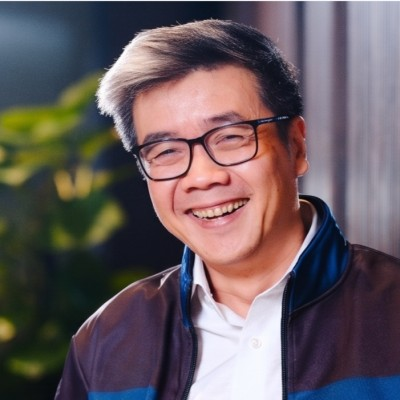
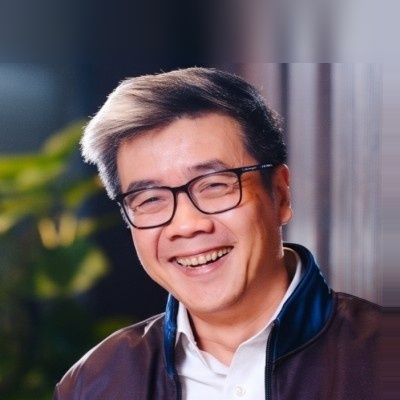
feat(speakers): update speaker Chinese names, bios, titles and headshot framing (Update #8)

diff --git a/src/data.ts b/src/data.ts
@@ -326,7 +326,7 @@ export const SPEAKERS_2026: Speaker[] = [
   {
     id: 'celeste-tan',
     name: 'Tan Wei Wei Celeste',
-    nameZh: '陈薇薇 (Tan Wei Wei Celeste)',
+    nameZh: '陈纬玮',
     sessionTagEn: 'Fireside Chat',
     sessionTagZh: '炉边对话',
     roleTagEn: 'Moderator',
@@ -336,7 +336,7 @@ export const SPEAKERS_2026: Speaker[] = [
     organizationZh: '新加坡企业发展局',
     photoUrl: '/speakers/celeste-tan.jpg',
     bioEn: 'Celeste is with Enterprise Singapore, where she works on initiatives that help businesses build quality and trust, enabling them to strengthen their competitiveness and access international markets. She holds a Bachelor of Social Sciences in Economics, Public Policy & Global Affairs from Nanyang Technological University.\n\nOutside work, Celeste is actively involved in youth and community development. She is passionate about bringing people and ideas together, and enjoys creating conversations that encourage different perspectives and explore how we can shape the future together.',
-    bioZh: '陈薇薇就职于新加坡企业发展局（Enterprise Singapore），致力于协助企业建立质量与信任标准，增强核心竞争力并拓展国际市场。她拥有南洋理工大学经济学、公共政策与全球事务社会科学学士学位。\n\n工作之余，薇薇积极参与青年与社区发展项目。她热衷于将多元人群与创新想法连接起来，乐于促进跨视角对话，共同探索如何携手塑造未来。'
+    bioZh: '陈纬玮就职于新加坡企业发展局（Enterprise Singapore），致力于协助企业建立质量与信任标准，增强核心竞争力并拓展国际市场。她拥有南洋理工大学经济学、公共政策与全球事务社会科学学士学位。\n\n工作之余，纬玮积极参与青年与社区发展项目。她热衷于将多元人群与创新想法连接起来，乐于促进跨视角对话，共同探索如何携手塑造未来。'
   },
   {
     id: 'zhang-tianyi',
@@ -351,7 +351,7 @@ export const SPEAKERS_2026: Speaker[] = [
     organizationZh: 'PuzzleLogic',
     photoUrl: '/speakers/zhang-tianyi.jpg',
     bioEn: 'Zhang Tianyi is the Co-Founder of PuzzleLogic. He completed his undergraduate studies at Beihang University, earned a Master\'s degree from Nanyang Technological University (NTU), and is currently pursuing his Ph.D. at the National University of Singapore (NUS). He previously served at the Agency for Science, Technology and Research (A*STAR) Singapore. He has published over 30 papers in the field of AI medical imaging in prestigious journals and conferences including IEEE TNNLS, IEEE TMI, MIA, and MICCAI.',
-    bioZh: '张天翊是PuzzleLogic的联合创始人，北航本科，新加坡南洋理工大学硕士，目前在新国立读博。他此前在新加坡科技局（ASTAR）任职，在AI医学图像领域有30多篇论文，发表在著名ai医学图像的期刊和会议如IEEE TNNLS，IEEE TMI，MIA，MICCAI等。'
+    bioZh: '张天翊是 PuzzleLogic 的联合创始人，本科毕业于北京航空航天大学，硕士毕业于新加坡南洋理工大学，目前在新加坡国立大学攻读博士。他此前曾任职于新加坡科技研究局（A*STAR），在 AI 医学图像领域发表了 30 多篇论文，研究成果见于 IEEE TNNLS、IEEE TMI、Medical Image Analysis (MIA)、MICCAI 等著名期刊和会议。'
   },
   {
     id: 'glex-low',
@@ -362,16 +362,16 @@ export const SPEAKERS_2026: Speaker[] = [
     roleTagEn: 'Speaker',
     roleTagZh: '演讲嘉宾',
     isModerator: false,
-    organizationEn: 'Storyworld.AI',
-    organizationZh: 'Storyworld.AI',
+    organizationEn: 'Founder, Storyworld.AI',
+    organizationZh: 'Storyworld.AI 创始人',
     photoUrl: '',
-    bioEn: 'Glex Low is representing Storyworld.AI. Full biography will be announced soon.',
-    bioZh: 'Glex Low 代表 Storyworld.AI 出席分论坛。详细个人履历即将公布。'
+    bioEn: 'Founder, Storyworld.AI. Full biography will be announced soon.',
+    bioZh: 'Storyworld.AI 创始人。详细个人履历即将公布。'
   },
   {
     id: 'howie-lau',
     name: 'Howie Lau How Sin',
-    nameZh: '刘浩新 (Howie Lau How Sin)',
+    nameZh: '刘浩新',
     sessionTagEn: 'Panel',
     sessionTagZh: '分论坛',
     roleTagEn: 'Moderator',
@@ -386,7 +386,7 @@ export const SPEAKERS_2026: Speaker[] = [
   {
     id: 'adam-chee',
     name: 'Prof. Adam Chee',
-    nameZh: '齐亚当教授 (Prof. Adam Chee)',
+    nameZh: '徐伟翔教授',
     sessionTagEn: 'Debate',
     sessionTagZh: '大辩论',
     roleTagEn: 'Speaker',
@@ -396,12 +396,12 @@ export const SPEAKERS_2026: Speaker[] = [
     organizationZh: '新加坡中央医院',
     photoUrl: '/speakers/adam-chee.jpg',
     bioEn: 'A/Prof. Adam CHEE is a digital health and health informatics leader, currently serving as Director of the AI Office at Singapore General Hospital.\n\nHe brings deep expertise across healthcare, technology, innovation, and business transformation, with experience spanning clinical information systems, strategic consulting, standards development, AI-enabled health, and health systems transformation.\n\nAdam has worked across Asia Pacific and the Middle East, supporting the adoption of evidence-based, technology-enabled healthcare solutions.\n\nHe also serves in multiple regional and international leadership roles, including HL7 Singapore, HL7 Asia, ISO TC215, WHO, APEC, and universities in the region.',
-    bioZh: '齐亚当副教授是数字健康与健康信息学领域的知名领袖，现任新加坡中央医院（SGH）人工智能办公室主任。\n\n他在医疗健康、科技、创新及商业转型领域拥有深厚积淀，经验涵盖临床信息系统、战略咨询、标准制定、AI智慧医疗以及健康体系变革。\n\n齐亚当曾参与亚太与中东地区多个项目，推动循证及科技赋能的医疗解决方案落地。他还在HL7新加坡、HL7亚洲、ISO TC215、世卫组织（WHO）、亚太经合组织（APEC）及区域内多所知名高校担任重要领导职务。'
+    bioZh: '徐伟翔副教授是数字健康与健康信息学领域的知名领袖，现任新加坡中央医院（SGH）人工智能办公室主任。\n\n他在医疗健康、科技、创新及商业转型领域拥有深厚积淀，经验涵盖临床信息系统、战略咨询、标准制定、AI智慧医疗以及健康体系变革。\n\n徐伟翔曾参与亚太与中东地区多个项目，推动循证及科技赋能的医疗解决方案落地。他还在HL7新加坡、HL7亚洲、ISO TC215、世卫组织（WHO）、亚太经合组织（APEC）及区域内多所知名高校担任重要领导职务。'
   },
   {
     id: 'he-yiyang',
     name: 'Yiyang He',
-    nameZh: '何依洋 (Yiyang He)',
+    nameZh: '何一阳',
     sessionTagEn: 'Debate',
     sessionTagZh: '大辩论',
     roleTagEn: 'Speaker',
@@ -411,12 +411,12 @@ export const SPEAKERS_2026: Speaker[] = [
     organizationZh: '新加坡国立大学',
     photoUrl: '/speakers/he-yiyang.jpg',
     bioEn: 'He Yiyang is an undergraduate at the National University of Singapore studying Sociology and Political Science, and is part of the honours programme at NUS College. His research focuses on how technological change is reshaping education and work.\n\nHe has studied how universities are responding to generative AI, particularly its effects on teaching and assessment, as well as how AI may change occupations, job tasks and the skills workers need. He is also interested in who benefits from these changes, especially how unequal access to AI tools and training may produce very different outcomes across groups. His wider research also looks at flexible work, overwork and workplace practices, which has led to a broader interest in how institutions shape people\'s experiences of work. More recently, he has also been exploring the environmental side of AI, including data-centre growth, energy demand, sustainability and questions of a just transition. Outside research, Yiyang has worked in people consulting, strategic planning and strategic communications across the public and private sectors. He previously served as President of the NUS College Club, representing more than 1,500 students.',
-    bioZh: '何依洋是新加坡国立大学社会学与政治学本科生，也是国大荣誉学院（NUS College）成员。他的研究聚焦科技变革如何重塑教育与工作范式。\n\n他深入探讨了大学对生成式AI的应对机制，特别是其对教学与评估的影响，以及AI对未来职业结构、技能需求和工作任务的深远重构。他关注技术红利的分配公平性，探讨AI工具与培训获取不平等带来的影响。\n\n其研究领域还延伸至灵活工时、过度工作与职场文化，并拓展至AI的环境议题，包括数据中心增长、能源消耗、可持续性与公正转型。在学术研究之外，依洋曾在公共与私营部门从事人力咨询、战略规划及品牌传播工作，并曾担任拥有1500多名学生的国大学院俱乐部主席。'
+    bioZh: '何一阳是新加坡国立大学社会学与政治学本科生，也是国大荣誉学院（NUS College）成员。他的研究聚焦科技变革如何重塑教育与工作范式。\n\n他深入探讨了大学对生成式AI的应对机制，特别是其对教学与评估的影响，以及AI对未来职业结构、技能需求和工作任务的深远重构。他关注技术红利的分配公平性，探讨AI工具与培训获取不平等带来的影响。\n\n其研究领域还延伸至灵活工时、过度工作与职场文化，并拓展至AI的环境议题，包括数据中心增长、能源消耗、可持续性与公正转型。在学术研究之外，一阳曾在公共与私营部门从事人力咨询、战略规划及品牌传播工作，并曾担任拥有1500多名学生的国大学院俱乐部主席。'
   },
   {
     id: 'yi-kaizhi',
     name: 'Yi KaiZhi',
-    nameZh: '易凯智 (Yi KaiZhi)',
+    nameZh: '蚁凯致',
     sessionTagEn: 'Debate',
     sessionTagZh: '大辩论',
     roleTagEn: 'Speaker',
@@ -425,8 +425,8 @@ export const SPEAKERS_2026: Speaker[] = [
     organizationEn: 'SagePaths Group',
     organizationZh: '联智教育集团',
     photoUrl: '/speakers/yi-kaizhi.jpg',
-    bioEn: 'Raised in Singapore\'s school system, with a decade in education: tutoring at 16, founded a study-abroad agency at 20. Today I\'m a Partner at SagePaths Group, an education services group operating in Singapore since 2006, where I lead SagePaths Global Education, helping families plan their path from school selection to university.',
-    bioZh: '在新加坡教育体系中成长，深耕教育领域十载：16岁开启家教生涯，20岁创立留学服务机构。现任联智集团（SagePaths Group，创立于2006年的新加坡专业教育服务集团）合伙人，负责联智国际教育业务，致力于为家庭提供从择校规划到大学录取的全方位路径指导。'
+    bioEn: 'An education entrepreneur raised in Singapore’s school system. Today I’m a Partner at SagePaths Group, a one-stop education platform serving families in Singapore since 2006 serving more than 10,000 families in Singapore, covering school selection, tutoring, university applications, student housing, study tours and family relocation. I lead SagePaths Global Education, helping families plan every step from their first school in Singapore to university and beyond.',
+    bioZh: '在新加坡教育体系中成长的一名教育创业者。现任联智教育集团（SagePaths Group）合伙人。联智作为一站式教育平台，自2006年起扎根新加坡，已累计服务超过10,000个家庭，业务涵盖择校规划、课后辅导、大学升学、学生公寓、研学游学及家庭移居等。目前我负责联智国际教育（SagePaths Global Education），致力于协助家庭规划从新加坡入学到大学及未来的每一步关键旅程。'
   }
 ];
 
@@ -571,8 +571,8 @@ export const TRANSLATIONS = {
     speakersSubtitle: 'Distinguished speakers, panelists, and moderators at BCYF 2026.',
     speakersClickHint: 'Click on any speaker to view their biography',
     clickToReadBio: 'Read Bio',
-    panelPendingNote: 'At least 2 more speakers TBC',
-    debatePendingNote: '2 more speakers TBC',
+    panelPendingNote: '1 more speaker TBC',
+    debatePendingNote: '1 more speaker TBC',
     debateModeratorPendingNote: 'Moderator (TBC)',
     speakerPendingChip: 'Speaker (TBC)',
     moderatorTag: 'Moderator',
@@ -644,8 +644,8 @@ export const TRANSLATIONS = {
     speakersSubtitle: '2026年通商中国青年论坛特邀嘉宾、研讨嘉宾与主持人阵容。',
     speakersClickHint: '点击卡片查看嘉宾完整履历',
     clickToReadBio: '查看完整履历',
-    panelPendingNote: '至少2名演讲嘉宾待定',
-    debatePendingNote: '2名辩论嘉宾待定',
+    panelPendingNote: '1名研讨嘉宾待定',
+    debatePendingNote: '1名辩论嘉宾待定',
     debateModeratorPendingNote: '辩论主持人（待定）',
     speakerPendingChip: '嘉宾（待定）',
     moderatorTag: '主持人',

diff --git a/src/components/AgendaSection.tsx b/src/components/AgendaSection.tsx
@@ -242,13 +242,13 @@ export default function AgendaSection({ language }: AgendaSectionProps) {
                             >
                               <img
                                 src="/speakers/celeste-tan.jpg"
-                                alt={isEn ? 'Tan Wei Wei Celeste' : '陈薇薇'}
+                                alt={isEn ? 'Tan Wei Wei Celeste' : '陈纬玮'}
                                 className="w-14 h-14 rounded-full object-cover border-2 border-brand-blue/40 shadow-xs shrink-0 group-hover:scale-105 transition-transform"
                               />
                               <div className="min-w-0">
                                 <div className="flex flex-wrap items-center gap-1.5">
                                   <span className="text-sm font-bold text-brand-navy group-hover:text-brand-blue transition-colors">
-                                    {isEn ? 'Tan Wei Wei Celeste' : '陈薇薇'}
+                                    {isEn ? 'Tan Wei Wei Celeste' : '陈纬玮'}
                                   </span>
                                   <span className="text-[10px] font-mono font-bold text-brand-blue bg-blue-50 border border-blue-200 px-2 py-0.5 rounded-full">
                                     {isEn ? 'Moderator' : '主持人'}
@@ -300,7 +300,7 @@ export default function AgendaSection({ language }: AgendaSectionProps) {
                           <div className="space-y-1.5">
                             <div className="flex items-center justify-between">
                               <span className="text-[10px] font-mono font-bold uppercase tracking-wider text-slate-400 block">
-                                {isEn ? 'Panelists (at least 2 more speakers TBC)' : '研讨嘉宾（至少2名嘉宾待定）'}
+                                {isEn ? 'Panelists (1 more speaker TBC)' : '研讨嘉宾（1名嘉宾待定）'}
                               </span>
                               <span className="text-[10px] font-mono text-brand-blue bg-blue-50 px-2 py-0.5 rounded-full">
                                 {t.panelPendingNote}
@@ -345,16 +345,13 @@ export default function AgendaSection({ language }: AgendaSectionProps) {
                                     </span>
                                   </div>
                                   <p className="text-[11px] text-slate-500 truncate mt-0.5">
-                                    Storyworld.AI
+                                    {isEn ? 'Founder, Storyworld.AI' : 'Storyworld.AI 创始人'}
                                   </p>
                                 </div>
                               </div>
 
-                              {/* Pending Panelist 1 */}
+                              {/* Pending Panelist */}
                               <SpeakerChipSkeleton label={isEn ? 'Panelist 3 (TBC)' : '研讨嘉宾 3（待定）'} />
-
-                              {/* Pending Panelist 2 */}
-                              <SpeakerChipSkeleton label={isEn ? 'Panelist 4 (TBC)' : '研讨嘉宾 4（待定）'} />
                             </div>
                           </div>
                         </div>
@@ -377,7 +374,7 @@ export default function AgendaSection({ language }: AgendaSectionProps) {
                           <div className="space-y-1.5">
                             <div className="flex items-center justify-between">
                               <span className="text-[10px] font-mono font-bold uppercase tracking-wider text-slate-400 block">
-                                {isEn ? 'Debaters (2 more speakers TBC)' : '辩论嘉宾（2名嘉宾待定）'}
+                                {isEn ? 'Debaters (1 more speaker TBC)' : '辩论嘉宾（1名嘉宾待定）'}
                               </span>
                               <span className="text-[10px] font-mono text-brand-blue bg-blue-50 px-2 py-0.5 rounded-full">
                                 {t.debatePendingNote}
@@ -398,7 +395,7 @@ export default function AgendaSection({ language }: AgendaSectionProps) {
                                 <div className="min-w-0">
                                   <div className="flex items-center gap-1.5">
                                     <span className="text-xs sm:text-sm font-bold text-brand-navy group-hover:text-brand-blue transition-colors">
-                                      {isEn ? 'Prof. Adam Chee' : '齐亚当教授'}
+                                      {isEn ? 'Prof. Adam Chee' : '徐伟翔教授'}
                                     </span>
                                   </div>
                                   <p className="text-[11px] text-slate-500 truncate mt-0.5">
@@ -420,7 +417,7 @@ export default function AgendaSection({ language }: AgendaSectionProps) {
                                 <div className="min-w-0">
                                   <div className="flex items-center gap-1.5">
                                     <span className="text-xs sm:text-sm font-bold text-brand-navy group-hover:text-brand-blue transition-colors">
-                                      {isEn ? 'Yiyang He' : '何依洋'}
+                                      {isEn ? 'Yiyang He' : '何一阳'}
                                     </span>
                                   </div>
                                   <p className="text-[11px] text-slate-500 truncate mt-0.5">
@@ -442,7 +439,7 @@ export default function AgendaSection({ language }: AgendaSectionProps) {
                                 <div className="min-w-0">
                                   <div className="flex items-center gap-1.5">
                                     <span className="text-xs sm:text-sm font-bold text-brand-navy group-hover:text-brand-blue transition-colors">
-                                      {isEn ? 'Yi KaiZhi' : '易凯智'}
+                                      {isEn ? 'Yi KaiZhi' : '蚁凯致'}
                                     </span>
                                   </div>
                                   <p className="text-[11px] text-slate-500 truncate mt-0.5">
@@ -451,11 +448,8 @@ export default function AgendaSection({ language }: AgendaSectionProps) {
                                 </div>
                               </div>
 
-                              {/* Pending Debater 1 */}
+                              {/* Pending Debater */}
                               <SpeakerChipSkeleton label={isEn ? 'Debater 4 (TBC)' : '辩论嘉宾 4（待定）'} />
-
-                              {/* Pending Debater 2 */}
-                              <SpeakerChipSkeleton label={isEn ? 'Debater 5 (TBC)' : '辩论嘉宾 5（待定）'} />
                             </div>
                           </div>
                         </div>
